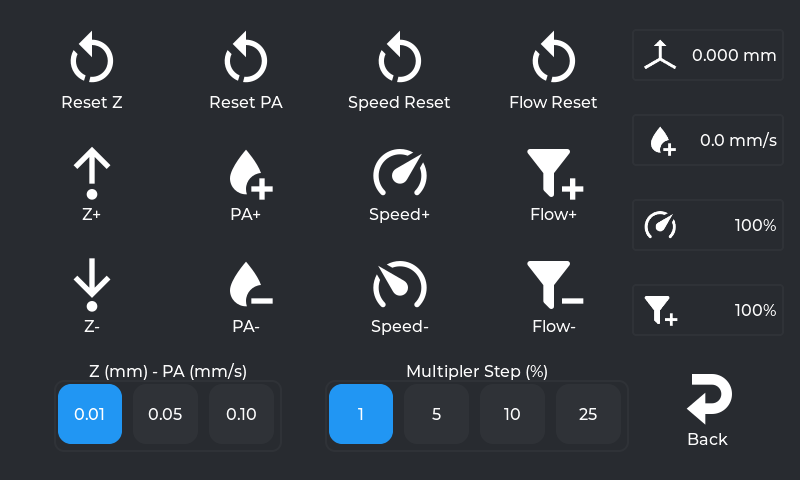
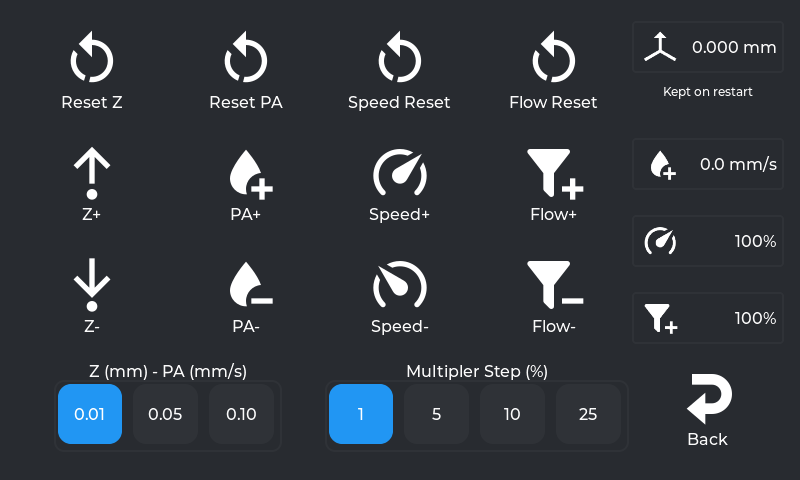
feat: say whether a Z offset survives a restart
A gcode offset is gone after a Klipper restart unless something saves
it. Helper-Script's "save z-offset" option does: it renames
SET_GCODE_OFFSET, wraps it in a macro ending in SAVE_VARIABLE, and
reapplies the saved value from a delayed_gcode at boot. Someone setting
an offset by hand for issue #7 needs to know which of those they have,
and nothing on screen said.

Fine Tune now reads "Kept on restart" or "Lost on restart" under the Z
value. It keys off the wrapper's gcode in configfile.settings containing
SAVE_VARIABLE, the shape on the development K1 Max. A read-only query
of that printer on 2026-10-26 confirmed the key and the text are there
as the fake serves them.

Checked against the fake with and without --zoffset-macro. The
screenshot is refreshed to show the note.

Refs #7.

diff --git a/src/finetune_panel.cpp b/src/finetune_panel.cpp
@@ -32,6 +32,24 @@ static const char *move_if_homed() {
 // while a button only ever moves one step past what the user has just watched.
 static constexpr double MAX_TYPED_Z_OFFSET = 1.0;
 
+// Plain Klipper forgets a gcode offset on restart. Helper-Script's "save
+// z-offset" option keeps it by renaming SET_GCODE_OFFSET and wrapping it in a
+// macro that ends with SAVE_VARIABLE, then reapplying the saved value from a
+// delayed_gcode at boot. That is the shape on the development K1 Max, measured
+// 2026-10-26, so a wrapper that saves is what is looked for.
+static bool offset_is_saved() {
+  auto &gcode = State::get_instance()->get_data(
+      "/printer_state/configfile/settings/gcode_macro set_gcode_offset/gcode"_json_pointer);
+  if (!gcode.is_string()) {
+    return false;
+  }
+
+  std::string body = gcode.template get<std::string>();
+  std::transform(body.begin(), body.end(), body.begin(),
+		 [](unsigned char c) { return std::toupper(c); });
+  return body.find("SAVE_VARIABLE") != std::string::npos;
+}
+
 FineTunePanel::FineTunePanel(KWebSocketClient &websocket_client, std::mutex &l)
   : NotifyConsumer(l)
   , ws(websocket_client)
@@ -58,6 +76,7 @@ FineTunePanel::FineTunePanel(KWebSocketClient &websocket_client, std::mutex &l)
   , pa(values_cont, &pa_plus_img, 150, 100, 15, "0.0 mm/s")
   , speed_factor(values_cont, &speed_up_img, 150, 100, 15 ,"100%")
   , flow_factor(values_cont, &flow_up_img, 150, 100, 15, "100%")
+  , zoffset_note(lv_label_create(values_cont))
   , numpad(panel_cont, true)
 {
   lv_obj_move_background(panel_cont);
@@ -70,6 +89,14 @@ FineTunePanel::FineTunePanel(KWebSocketClient &websocket_client, std::mutex &l)
   lv_obj_set_style_pad_all(values_cont, 0, 0);
   lv_obj_set_flex_flow(values_cont, LV_FLEX_FLOW_COLUMN);
   lv_obj_set_flex_align(values_cont, LV_FLEX_ALIGN_SPACE_EVENLY, LV_FLEX_ALIGN_CENTER, LV_FLEX_ALIGN_CENTER);
+
+  lv_obj_set_style_text_font(zoffset_note, &lv_font_montserrat_12, LV_STATE_DEFAULT);
+  lv_label_set_text(zoffset_note, "");
+  lv_obj_move_to_index(zoffset_note, 1);
+  // Pulled up towards the Z tile. Spaced evenly it sits halfway to the PA tile
+  // and reads as belonging to either.
+  auto hscale = (double)lv_disp_get_physical_ver_res(NULL) / 480.0;
+  lv_obj_set_style_translate_y(zoffset_note, -14 * hscale, 0);
 
   static lv_coord_t grid_main_row_dsc[] = {LV_GRID_FR(1), LV_GRID_FR(1), LV_GRID_FR(1), LV_GRID_FR(1),
     LV_GRID_TEMPLATE_LAST};
@@ -130,6 +157,7 @@ void FineTunePanel::foreground() {
   if (!v.is_null()) {
     z_offset.update_label(KUtils::short_measure(v.template get<double>(), "mm").c_str());
   }
+  lv_label_set_text(zoffset_note, offset_is_saved() ? "Kept on restart" : "Lost on restart");
 
   v = State::get_instance()->get_data(
 		"/printer_state/extruder/pressure_advance"_json_pointer);

diff --git a/src/finetune_panel.h b/src/finetune_panel.h
@@ -83,6 +83,8 @@ class FineTunePanel : public NotifyConsumer {
   ImageLabel pa;
   ImageLabel speed_factor;
   ImageLabel flow_factor;
+  // Under the Z value: whether this printer keeps a gcode offset over a restart.
+  lv_obj_t *zoffset_note;
   // Its own rather than MainPanel's, which lives in the Home tab and would draw
   // behind this panel. Declared last so it is created over everything else.
   Numpad numpad;
